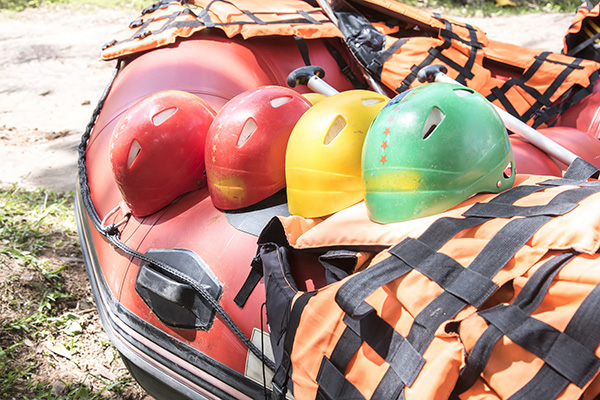
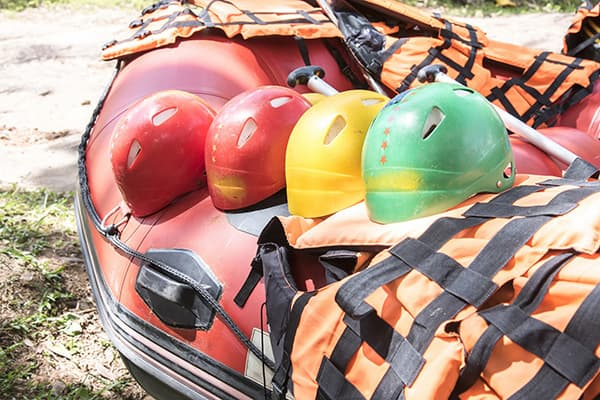
adjustment made

diff --git a/wwr/index.html b/wwr/index.html
@@ -50,12 +50,12 @@
 
             <form>
                 <label for="n-name">Name</label>
-                <input type="text" id="n-name" required>
+                <input type="text" id="n-name" name="name" required>
 
                 <label for="n-email">Email</label>
-                <input type="email" id="n-email" required>
+                <input type="email" id="n-email" name="email" required>
 
-                <button type="submit">Subscribe</button>
+                <button type="submit">Join Newsletter</button>
             </form>
         </section>
 
@@ -92,9 +92,9 @@
         <p>© 2026 | Exciting Expeditions | Promise Elohor</p>
 
         <nav class="socialmedia">
-            <a href="#"><img src="images/facebook.svg" alt=""></a>
-            <a href="#"><img src="images/instagram.svg" alt=""></a>
-            <a href="#"><img src="images/linkedin.svg" alt=""></a>
+            <a href="#"><img src="images/facebook.svg" alt="access to our Facebook"></a>
+            <a href="#"><img src="images/instagram.svg" alt="access to our Instagram"></a>
+            <a href="#"><img src="images/linkedin.svg" alt="access to our LinkedIn"></a>
         </nav>
     </footer>
 

diff --git a/wwr/trips.html b/wwr/trips.html
@@ -42,19 +42,19 @@
         <section class="trip-grid">
 
             <div>
-                <img src="images/raft1.jpg" alt="">
+                <img src="images/raft1.jpg" alt="Beginner rafting adventure">
                 <h3>Beginner Adventure</h3>
                 <p>Perfect for first-timers. Calm waters and fun experience.</p>
             </div>
 
             <div>
-                <img src="images/raft2.jpg" alt="">
+                <img src="images/raft2.jpg" alt="Intermediate rafting rapids">
                 <h3>Intermediate Rapids</h3>
                 <p>A mix of calm and exciting rapids for adventure seekers.</p>
             </div>
 
             <div>
-                <img src="images/raft3.jpg" alt="">
+                <img src="images/raft3.jpg" alt="Extreme white water rafting">
                 <h3>Extreme Challenge</h3>
                 <p>High intensity rafting for experienced thrill lovers.</p>
             </div>

diff --git a/wwr/styles/rafting.css b/wwr/styles/rafting.css
@@ -174,6 +174,26 @@ footer {
     color: white;
 }
 
+.hero::before {
+    content: "";
+    position: absolute;
+    inset: 0;
+    background: rgba(0, 0, 0, 0.4);
+}
+
+.hero {
+    position: relative;
+}
+
+.hero img {
+    width: 100%;
+    display: block;
+}
+
+section {
+    padding: 10px;
+}
+
 /* NEWSLETTER */
 .newsletter {
     margin: 40px 0;
